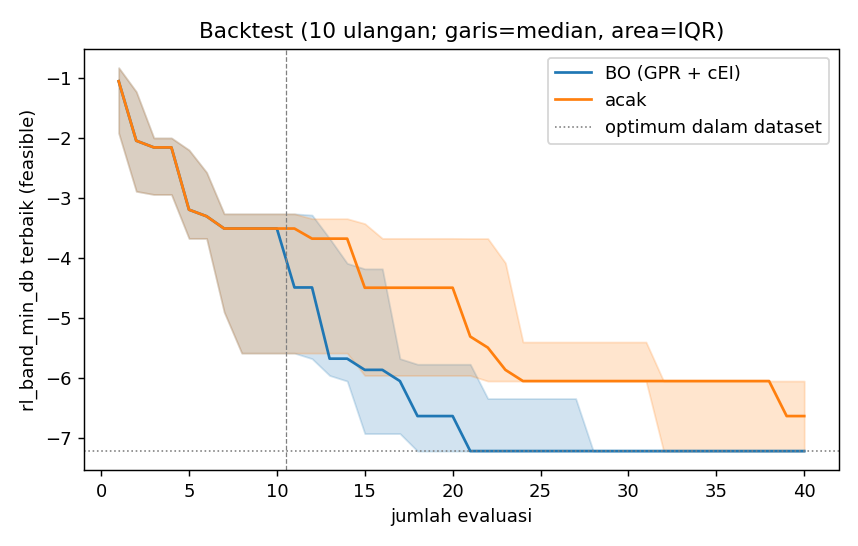
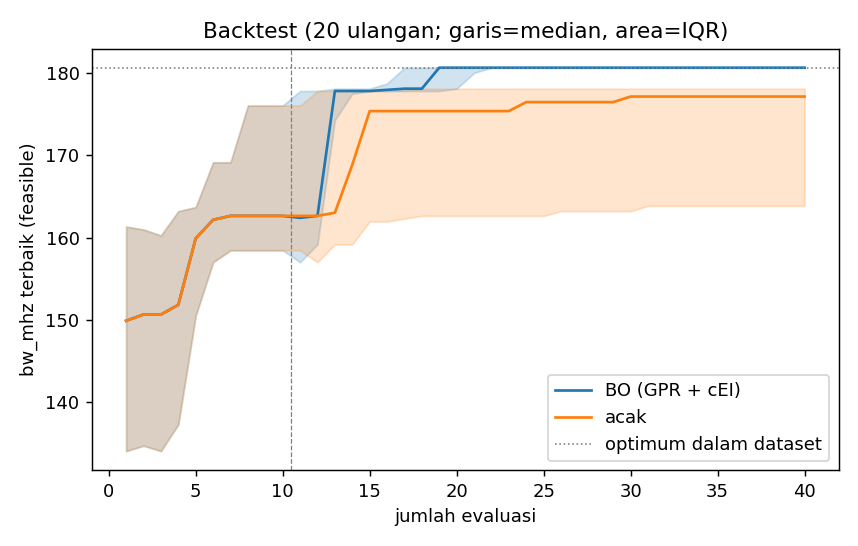
Simpan hasil backtest FR-4, report terbaru, dan paket dataset rilis

diff --git a/data/_compare/report.md b/data/_compare/report.md
@@ -2,8 +2,8 @@
 
 ## 1. Informasi reproduksi
 
-- Tanggal: 2026-11-13
-- Commit git: 9d722a68c9e0d348ddae2bf41287b935ff2930d5
+- Tanggal: 2026-11-16
+- Commit git: e7e54d45a75f67fe99c08d1113d7320bdc33b48e
 - Paket: Python 3.10.0, numpy 2.2.6, pandas 2.3.3, sklearn 1.7.2, scipy 1.15.3, matplotlib 3.10.9
 - Sampel per run: MicrostripAntena 156 sampel; MicrostripAntena_RO4350B 185 sampel
 - Syarat dasar: fr 3.3 sampai 3.7 GHz dan RL minimum <= -10 dB; desain terbaik dipilih dengan memaksimalkan bw_mhz
@@ -172,6 +172,10 @@ Parity GPR (MicrostripAntena):
 
 ![Parity GPR MicrostripAntena](report_MicrostripAntena_gpr_parity.png)
 
+Validasi maju (MicrostripAntena):
+
+![Validasi maju MicrostripAntena](report_MicrostripAntena_forward_validation.png)
+
 Backtest BO vs acak (MicrostripAntena):
 
 ![Backtest BO vs acak MicrostripAntena](report_MicrostripAntena_bo_backtest.png)
@@ -188,9 +192,13 @@ Backtest BO vs acak (MicrostripAntena_RO4350B):
 
 ![Backtest BO vs acak MicrostripAntena_RO4350B](report_MicrostripAntena_RO4350B_bo_backtest.png)
 
+Sensitivitas ARD dan Sobol (MicrostripAntena_RO4350B):
+
+![Sensitivitas ARD dan Sobol MicrostripAntena_RO4350B](report_MicrostripAntena_RO4350B_sensitivity.png)
+
 ## 8. Catatan otomatis
 
 - Front MicrostripAntena (BW) belum representatif: hanya 4 titik (minimal 6).
 - Front MicrostripAntena (cakupan pita) belum representatif: hanya 5 titik (minimal 6).
-- Validasi maju (MicrostripAntena): forward_validation.png belum ada di C:\Users\User\Playground\CST_Auto\data\MicrostripAntena\figures (jalankan train, validate, atau backtest).
+- Sensitivitas ARD dan Sobol (MicrostripAntena): sensitivity.png belum ada di C:\Users\User\Playground\CST_Auto\data\MicrostripAntena\figures (jalankan train, validate, backtest, atau sensitivity).
 - MicrostripAntena: 2 sampel punya fr menempel di tepi sweep; resonansi sebenarnya mungkin di luar rentang sweep.
